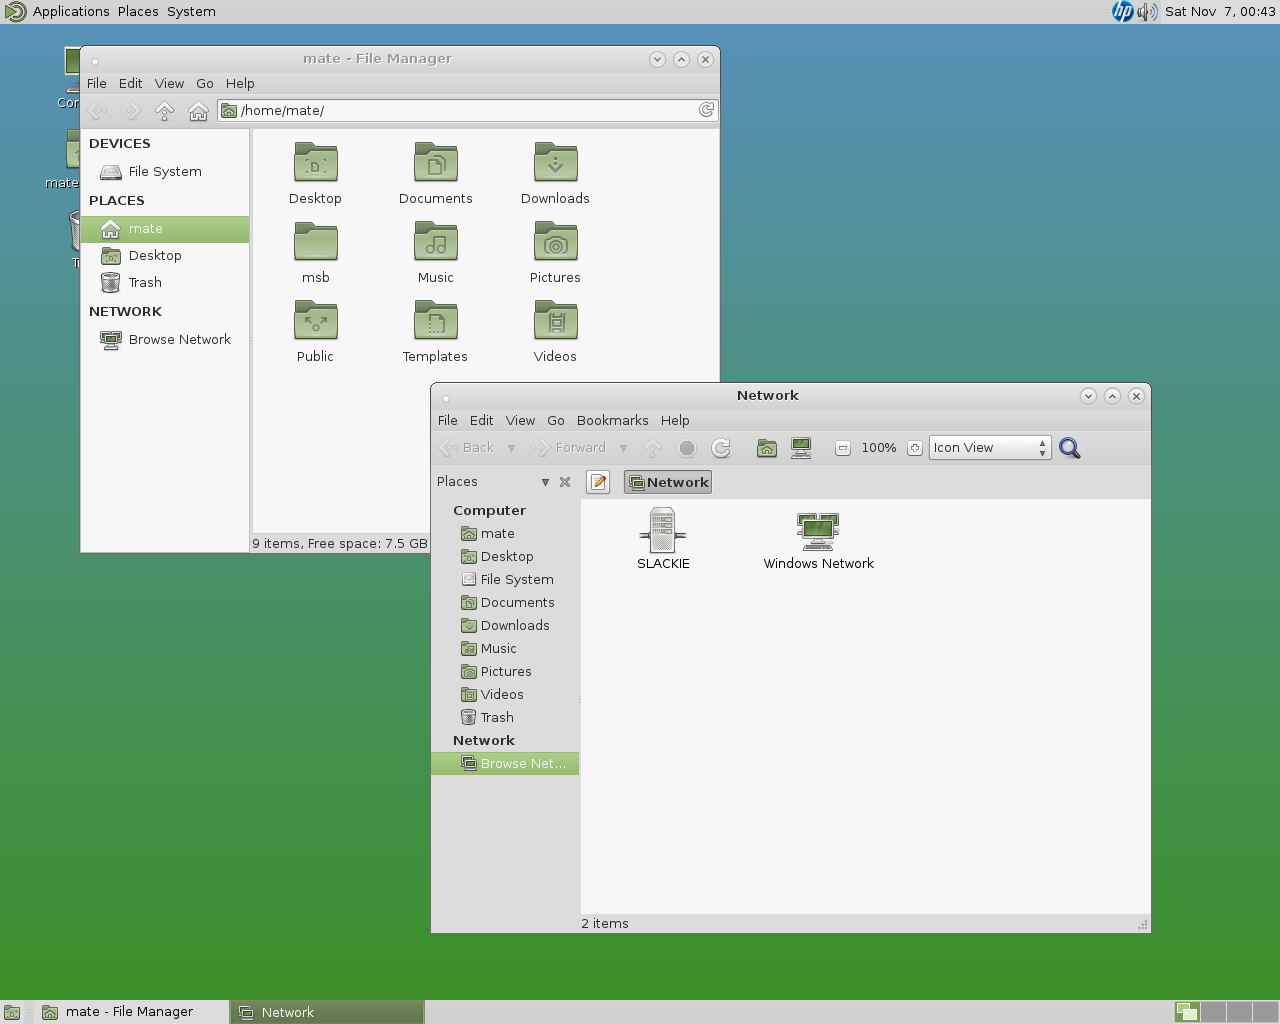
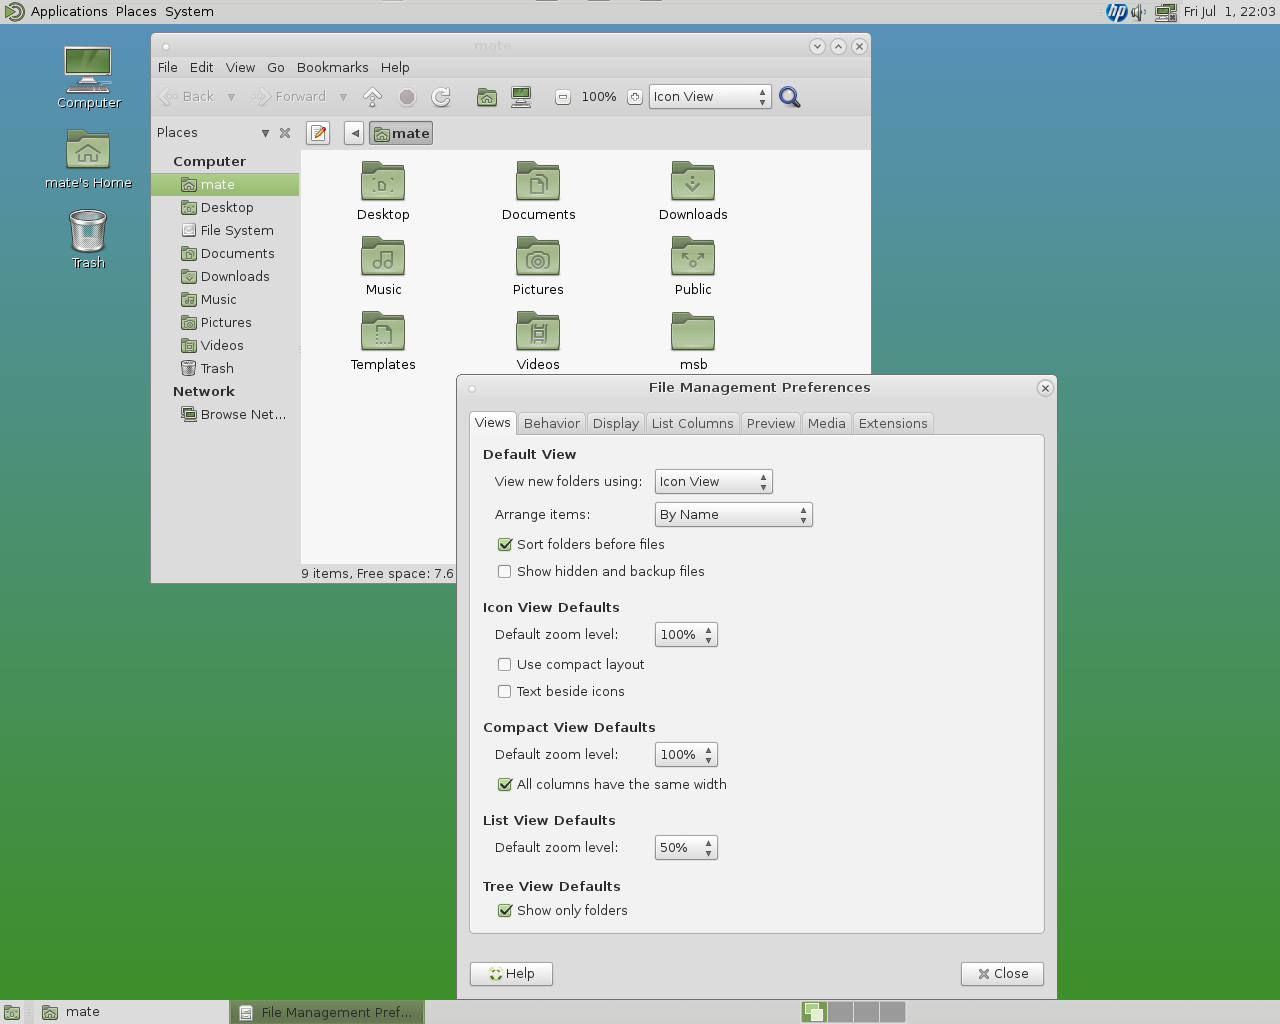
Update for MATE 1.14 and Slackware 14.2.

diff --git a/index.html b/index.html
@@ -33,8 +33,8 @@ type='text/css'>
            <p>The scripts are hosted in a <a
              href="https://github.com/mateslackbuilds/msb">Git repo</a> so feel
            free to test and offer suggestions, improvements, patches, etc.
-           Here are some obligatory screenshots of MATE 1.12 with its default
-           theme and background running on Slackware64-14.1:</p>
+           Here are some obligatory screenshots of MATE 1.14 with its default
+           theme and background running on Slackware64-14.2:</p>
            <div id="screenshots">
              <a href="images/mate1.png"><img class="image"
                src="images/mate1-thumb.png" /></a>
@@ -48,7 +48,7 @@ type='text/css'>
            <p>FAQ:</p>
            <ul>
            <li>Q: Are there binary packages?</li><li>A: Yes, there are
-             packages for Slackware 14.1 x86 and x86_64 available at:
+             packages for Slackware 14.2 x86 and x86_64 available at:
              <a
                href="http://slackware.uk/msb">http://slackware.uk/msb</a>.  It is still advisable to
              clone the git repo and build the packages yourself but these
@@ -62,14 +62,13 @@ type='text/css'>
 	   AlienBOB's Slackware Live</a> project that includes MATE Desktop.</li>
            <li>Q: Do the scripts build and run on -current?</li><li>A: Yes,
            based on our testing. These scripts are developed on
-           Slackware64-14.1 and Slackware64-current machines but should also
-           work fine on x86 (32 bit) systems.  Please be sure to read the
-           README.TXT, KNOWN_ISSUES.TXT, and CURRENT.TXT documents as these
-           are updated to note any potential problems or issues.</li>
+           Slackware-current machines but binary packages will target for stable releases.
+	   Please be sure to read the README.TXT, KNOWN_ISSUES.TXT, and CURRENT.TXT
+	   documents as these are updated to note any potential problems or issues.</li>
            <li>Q: So -current is officially supported?</li>
            <li>A: Not exactly.  Since Slackware -current is a moving target,
-           there is no guarantee that MATE SlackBuilds will build or install
-           on Slackware -current.  Only a full install of the latest
+           there is no guarantee that MATE SlackBuilds will build or work properly
+           on Slackware -current.  Only a full installation of the latest
            Slackware release is officially supported.</li>
            <li>Q: I'm getting weird issues with the panel, menu, icons, or
            other such things.  What's up?</li>
